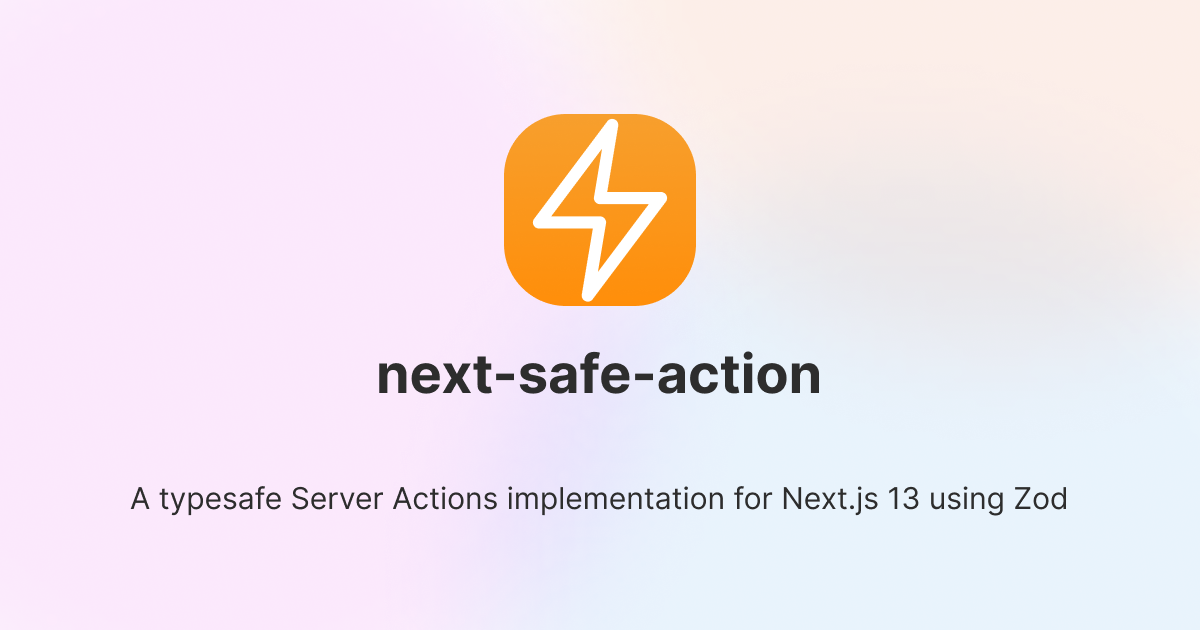
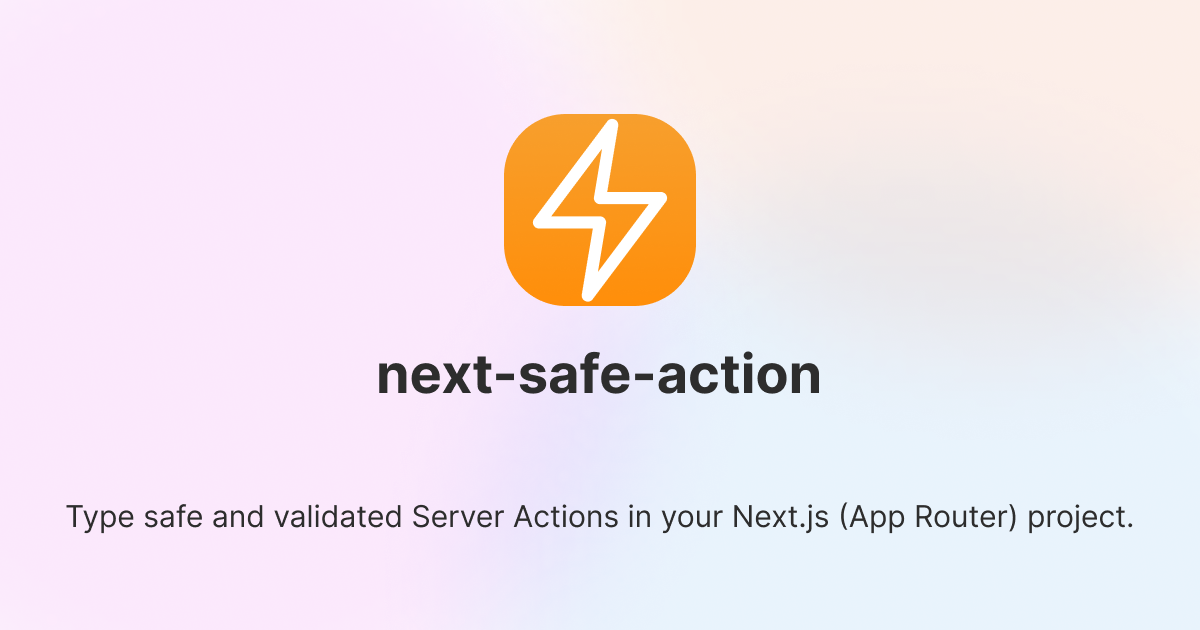
chore: update descriptions for next Next.js releases

Changed region(s): [[0.0617, 0.754, 0.9558, 0.8444]]

diff --git a/packages/website/src/pages/index.tsx b/packages/website/src/pages/index.tsx
@@ -8,7 +8,7 @@ export default function Home(): JSX.Element {
 	return (
 		<Layout
 			title={siteConfig.tagline}
-			description="next-safe-action is a library for defining end-to-end typesafe Server Actions for Next.js 13 using Zod.">
+			description="next-safe-action is a library for defining end-to-end typesafe and validated Server Actions in Next.js (App Router) projects.">
 			<Landing />
 		</Layout>
 	);

diff --git a/packages/website/docusaurus.config.js b/packages/website/docusaurus.config.js
@@ -9,7 +9,7 @@ const vercelBadge = `<a href="https://vercel.com" target="_blank"><img src="/img
 /** @type {import('@docusaurus/types').Config} */
 const config = {
 	title: "next-safe-action",
-	tagline: "Typesafe Server Actions in your Next.js 13 app",
+	tagline: "Type safe Server Actions in your Next.js (App Router) project",
 	favicon: "img/favicon.ico",
 
 	// Set the production url of your site here
